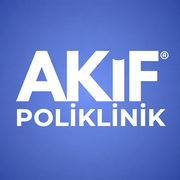
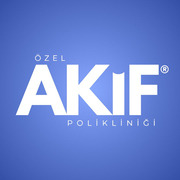
Simgeleri ve resimleri güncelleyin, globals.css dosyasındaki stilleri geliştirin ve daha iyi düzen ve işlevsellik için iletişim ve gezinme bileşenlerini yeniden düzenleyin.

Changed region(s): [[0.0833, 0.2778, 0.9444, 0.7222]]

diff --git a/frontend/src/components/site/contact/index.jsx b/frontend/src/components/site/contact/index.jsx
@@ -2,7 +2,6 @@ import { ArrowUpRight } from "@phosphor-icons/react/dist/ssr";
 
 import ContactDetails from "@/components/site/contactDetails";
 import ContactForm from "@/components/site/contactForm";
-import { siteConfig } from "@/config/site";
 import { getTreatmentCopy } from "@/content/treatmentCopy";
 import { Link } from "@/i18n/navigation";
 
@@ -10,45 +9,37 @@ export default function Contact({ translations, locale, settings }) {
   const content = getTreatmentCopy(locale);
 
   return (
-    <section id="contact" className=" px-3 pb-3 pt-3 sm:px-5 sm:pb-5 sm:pt-5">
-      <div className="mx-auto max-w-[76rem] border border-ink/14 bg-surface">
-        <header data-motion-intro className="flex min-h-12 items-center border-b border-ink/12 px-5 sm:px-7">
-          <p className="text-[0.65rem] font-semibold tracking-[0.16em] text-ink/46 uppercase">{siteConfig.name}</p>
-        </header>
+    <section id="contact" className="grid-container py-10 sm:py-14 lg:py-16 xl:py-18">
+      <div className="grid gap-12 lg:grid-cols-[.88fr_1.11fr] lg:gap-0">
+        <div data-motion-intro className="lg:pe-14 xl:pe-18">
+          <p className="text-[0.65rem] font-semibold tracking-[0.18em] text-primary uppercase">01 · {content.ui.contactEyebrow}</p>
+          <h1 className="mt-5 max-w-2xl text-balance text-[clamp(2.25rem,4.1vw,3.8rem)] leading-[0.96] font-medium tracking-[-0.055em] text-ink">{content.ui.contactTitle}</h1>
+          <p className="mt-4 max-w-md text-sm leading-6 text-ink/54">{content.ui.homeIntro}</p>
 
-        <div className="grid lg:grid-cols-[.92fr_1.08fr]">
-          <div data-motion-intro className="flex flex-col bg-ink-deep p-6 text-white sm:p-8 lg:p-10 xl:p-12">
-            <p className="text-[0.65rem] font-semibold tracking-[0.18em] text-white/40 uppercase">01 · {content.ui.contactEyebrow}</p>
-            <h1 className="mt-7 max-w-xl text-balance text-[clamp(2.5rem,4.8vw,4.35rem)] leading-[0.94] font-medium tracking-[-0.06em]">{content.ui.contactTitle}</h1>
-            <p className="mt-5 max-w-md text-sm leading-6 text-white/52">{content.ui.homeIntro}</p>
-
-            <div className="mt-9 lg:mt-12">
-              <p className="text-[0.65rem] font-semibold tracking-[0.16em] text-white/36 uppercase">{translations.callTitle}</p>
-              <ContactDetails labels={{ addressTitle: translations.addressTitle }} settings={settings} tone="dark" />
-              <Link
-                href="/treatments"
-                className="group mt-7 flex min-h-11 items-center justify-between border-t border-white/16 pt-4 text-[0.82rem] text-white/62 transition-colors duration-180 ease-[cubic-bezier(.22,1,.36,1)] hover:text-white"
-              >
-                <span>{content.ui.treatmentsTeaser}</span>
-                <ArrowUpRight
-                  aria-hidden="true"
-                  className="size-4 shrink-0 transition-transform duration-200 ease-[cubic-bezier(.22,1,.36,1)] group-hover:-translate-y-0.5 group-hover:translate-x-0.5"
-                  weight="light"
-                />
-              </Link>
-            </div>
+          <div className="mt-9 lg:mt-11">
+            <p className="text-[0.65rem] font-semibold tracking-[0.16em] text-ink/38 uppercase">{translations.callTitle}</p>
+            <ContactDetails labels={{ addressTitle: translations.addressTitle }} settings={settings} />
+            <Link
+              href="/treatments"
+              className="group mt-7 flex min-h-11 items-center justify-between border-t border-ink/12 pt-4 text-[0.82rem] text-ink/58 transition-colors duration-180 ease-[cubic-bezier(.22,1,.36,1)] hover:text-primary"
+            >
+              <span>{content.ui.treatmentsTeaser}</span>
+              <ArrowUpRight
+                aria-hidden="true"
+                className="size-4 shrink-0 transition-transform duration-200 ease-[cubic-bezier(.22,1,.36,1)] group-hover:-translate-y-0.5 group-hover:translate-x-0.5"
+                weight="light"
+              />
+            </Link>
           </div>
+        </div>
 
-          <div data-motion-intro className="flex flex-col border-t border-ink/12 p-6 sm:p-8 lg:border-s lg:border-t-0 lg:p-10 xl:p-12">
-            <div className="border-b border-ink/12 pb-4">
-              <div>
-                <p className="text-[0.65rem] font-semibold tracking-[0.18em] text-primary uppercase">02 · {translations.writeTitle}</p>
-                <h2 className="mt-3 max-w-xl text-[1.65rem] leading-[1.04] font-medium tracking-[-0.04em] text-ink sm:text-[2.15rem]">{content.ui.homeIntro}</h2>
-              </div>
-            </div>
-            <div className="mt-7 lg:mt-9">
-              <ContactForm labels={translations.form} locale={locale} />
-            </div>
+        <div data-motion-intro className="border-t border-ink/12 pt-10 lg:border-s lg:border-t-0 lg:ps-14 lg:pt-0 xl:ps-18">
+          <div className="border-b border-ink/12 pb-5">
+            <p className="text-[0.65rem] font-semibold tracking-[0.18em] text-primary uppercase">02 · {translations.writeTitle}</p>
+            <h2 className="mt-3 max-w-xl text-[clamp(1.55rem,2.7vw,2rem)] leading-[1.08] font-medium tracking-[-0.04em] text-ink">{content.ui.homeIntro}</h2>
+          </div>
+          <div className="mt-7 lg:mt-8">
+            <ContactForm labels={translations.form} locale={locale} />
           </div>
         </div>
       </div>

diff --git a/frontend/src/components/site/header/navigationShell.jsx b/frontend/src/components/site/header/navigationShell.jsx
@@ -7,13 +7,16 @@ import MobileNavbar from "./mobileNavbar";
 
 export default function NavigationShell({ currentLocale, groups, labels, settings }) {
   return (
-    <header data-motion-header className="relative z-40">
+    <header
+      data-motion-header
+      className="relative z-40 border-b border-ink/10 bg-[#fafbfe]"
+    >
       <div className="grid-container">
         <div className="hidden justify-center py-5 lg:flex xl:py-6">
           <Brand variant="display" />
         </div>
 
-        <div className="grid min-h-14 w-full grid-cols-[1fr_auto] items-stretch border-y border-ink/14 lg:grid-cols-[1fr_auto_1fr]">
+        <div className="grid min-h-16 w-full grid-cols-[1fr_auto] items-stretch border-t border-ink/10 lg:min-h-14 lg:grid-cols-[1fr_auto_1fr]">
           <div className="flex items-center ps-1 sm:ps-2">
             <div className="lg:hidden">
               <Brand />
@@ -26,14 +29,19 @@ export default function NavigationShell({ currentLocale, groups, labels, setting
             <LanguageMenu currentLocale={currentLocale} label={labels.languages} />
             <a
               href={settings.phones[0].href}
-              className="flex h-full items-center gap-2 border-s border-ink/12 bg-ink px-4 text-[0.7rem] font-medium text-white transition-colors duration-180 ease-[cubic-bezier(.22,1,.36,1)] hover:bg-primary"
+              className="flex h-full items-center gap-2 border-s border-ink/10 bg-primary px-4 text-[0.7rem] font-medium text-white transition-colors duration-180 ease-[cubic-bezier(.22,1,.36,1)] hover:bg-primary-dark"
             >
               <Phone aria-hidden="true" className="size-3.5" weight="light" />
               {labels.call}
             </a>
           </div>
 
-          <MobileNavbar currentLocale={currentLocale} groups={groups} labels={labels} />
+          <MobileNavbar
+            currentLocale={currentLocale}
+            groups={groups}
+            labels={labels}
+            phone={settings.phones[0]}
+          />
         </div>
       </div>
     </header>

diff --git a/frontend/src/components/site/footer/index.jsx b/frontend/src/components/site/footer/index.jsx
@@ -26,11 +26,21 @@ export default async function Footer({ locale }) {
         <div className="grid gap-10 py-11 sm:py-13 lg:grid-cols-[1.2fr_.8fr] lg:gap-16">
           <div>
             <p className="text-[0.66rem] font-semibold tracking-[0.16em] text-white/42 uppercase">{content.ui.contact}</p>
-            <div className="mt-4 flex items-end gap-4 sm:gap-5">
-              <Image alt={siteConfig.name} className="size-20 shrink-0 object-cover sm:size-24" height={96} sizes="(min-width: 640px) 96px, 80px" src="/images/logo/main-logo.png" width={96} />
-              <p className="max-w-xl text-[clamp(2.2rem,4.6vw,4rem)] leading-[0.9] font-medium tracking-[-0.06em]">{siteConfig.name}</p>
-            </div>
-            <address className="mt-7 max-w-md text-[0.82rem] leading-5.5 not-italic text-white/54">{settings.address}</address>
+            <Link
+              href="/"
+              aria-label={siteConfig.name}
+              className="mt-5 inline-flex transition-opacity duration-200 ease-[cubic-bezier(.22,1,.36,1)] hover:opacity-72"
+            >
+              <Image
+                alt=""
+                className="h-auto w-48 object-contain sm:w-56"
+                height={468}
+                sizes="(min-width: 640px) 224px, 192px"
+                src="/images/logo/akif-wordmark-white.png"
+                width={953}
+              />
+            </Link>
+            <address className="mt-6 max-w-md text-[0.82rem] leading-5.5 not-italic text-white/54">{settings.address}</address>
           </div>
 
           <div className="grid content-start gap-8 sm:grid-cols-2 lg:grid-cols-1 xl:grid-cols-2">

diff --git a/frontend/src/components/site/header/brand.jsx b/frontend/src/components/site/header/brand.jsx
@@ -7,17 +7,24 @@ export default function Brand({ variant = "compact" }) {
   const isDisplay = variant === "display";
 
   return (
-    <Link href="/" aria-label={siteConfig.name} className={isDisplay ? "group block" : "group flex items-center gap-2.5 text-[0.82rem] font-medium tracking-[-0.025em] text-ink"}>
+    <Link
+      href="/"
+      aria-label={siteConfig.name}
+      className="group inline-flex items-center"
+    >
       <Image
         alt=""
-        className={`object-cover transition-transform duration-300 ease-[cubic-bezier(.22,1,.36,1)] group-hover:-translate-y-0.5 ${isDisplay ? "size-22 xl:size-24" : "size-9"}`}
-        height={isDisplay ? 96 : 36}
+        className={`h-auto object-contain transition-transform duration-300 ease-[cubic-bezier(.22,1,.36,1)] group-hover:-translate-y-0.5 ${
+          isDisplay
+            ? "w-[10.5rem] sm:w-48 xl:w-[13.5rem]"
+            : "w-[7.5rem] sm:w-[8.5rem]"
+        }`}
+        height={468}
         priority
-        sizes={isDisplay ? "96px" : "36px"}
-        src="/images/logo/main-logo.png"
-        width={isDisplay ? 96 : 36}
+        sizes={isDisplay ? "(min-width: 1280px) 216px, 192px" : "136px"}
+        src="/images/logo/akif-wordmark-primary.png"
+        width={953}
       />
-      {isDisplay ? null : <span>{siteConfig.name}</span>}
     </Link>
   );
 }

diff --git a/frontend/src/components/site/header/mobileNavbar.jsx b/frontend/src/components/site/header/mobileNavbar.jsx
@@ -10,7 +10,6 @@ import {
   DialogTitle,
   DialogTrigger,
 } from "@/components/ui/dialog";
-import { siteConfig } from "@/config/site";
 import { Link } from "@/i18n/navigation";
 
 import Brand from "./brand";
@@ -33,7 +32,7 @@ function MenuGlyph({ open }) {
   );
 }
 
-export default function MobileNavbar({ currentLocale, groups, labels }) {
+export default function MobileNavbar({ currentLocale, groups, labels, phone }) {
   const [open, setOpen] = useState(false);
 
   return (
@@ -148,7 +147,7 @@ export default function MobileNavbar({ currentLocale, groups, labels }) {
                 variant="mobile"
               />
               <a
-                href={siteConfig.phones[0].href}
+                href={phone.href}
                 className="group inline-flex min-h-11 items-center gap-3 bg-primary px-4 text-sm font-medium text-white"
               >
                 {labels.call}

diff --git a/frontend/src/app/(site)/[locale]/privacy-notice/page.jsx b/frontend/src/app/(site)/[locale]/privacy-notice/page.jsx
@@ -22,7 +22,7 @@ export default async function PrivacyNoticePage({ params }) {
   const settings = await getPublicSiteSettings();
 
   return (
-    <article className="bg-surface py-10 sm:py-14">
+    <article className="py-10 sm:py-14">
       <div className="grid-container max-w-5xl">
         <header data-motion-intro className="border-b border-ink/14 pb-8 sm:pb-10">
           <div className="flex flex-col gap-4 sm:flex-row sm:items-start sm:justify-between">

diff --git a/frontend/src/app/globals.css b/frontend/src/app/globals.css
@@ -178,7 +178,7 @@
   font-weight: 600;
   letter-spacing: 0.055em;
   text-transform: uppercase;
-  color: rgb(39 35 31 / 0.68);
+  color: rgb(23 32 56 / 0.64);
   transition: color 180ms cubic-bezier(0.22, 1, 0.36, 1),
     border-color 180ms cubic-bezier(0.22, 1, 0.36, 1);
 }
